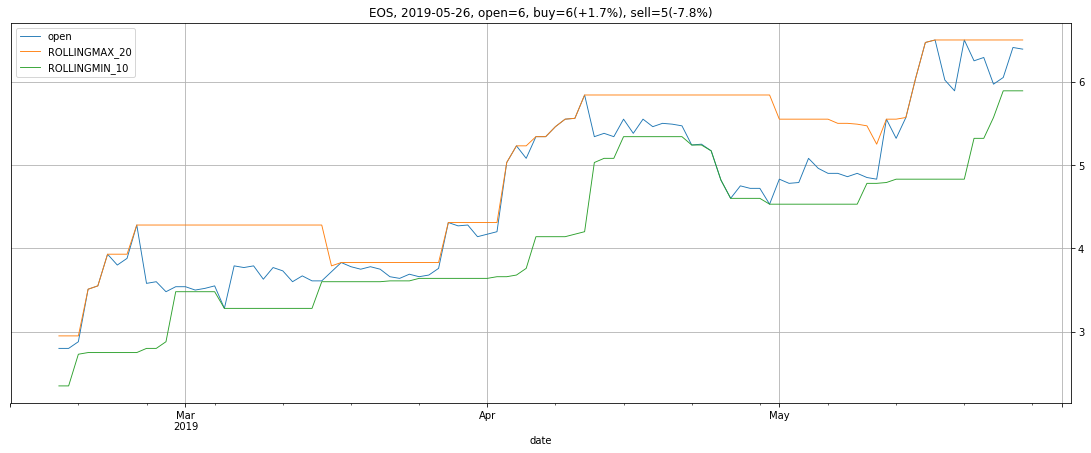
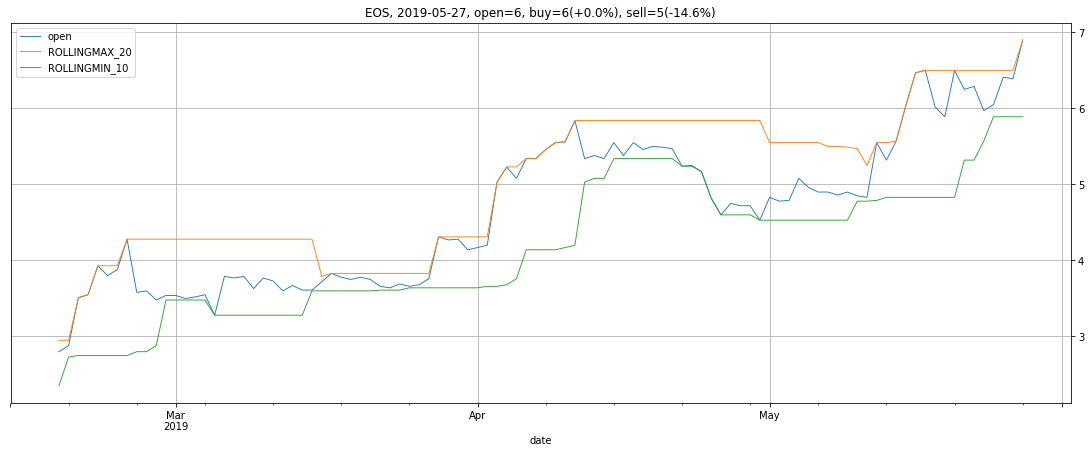
Daily update.

diff --git a/mds.md b/mds.md
@@ -19,9 +19,10 @@ display(HTML("<style>.container { width:70% !important; }</style>"))
 
 
 
-<script src="//code.highcharts.com/stock/highstock.js"></script>
-<script src="//code.highcharts.com/highcharts-more.js"></script>
-<script src="//code.highcharts.com/modules/exporting.js"></script>
+<script src="https://code.jquery.com/jquery-3.1.1.min.js"></script>
+<script src="https://code.highcharts.com/stock/highstock.js"></script>
+<script src="https://code.highcharts.com/stock/modules/exporting.js"></script>
+<script src="https://code.highcharts.com/stock/modules/export-data.js"></script>
 
 
 
@@ -109,52 +110,52 @@ monitor_df
     <tr>
       <th>0</th>
       <td>399300</td>
-      <td>2019-05-27</td>
-      <td>3592.60</td>
+      <td>2019-05-28</td>
+      <td>3633.02</td>
       <td>4125.97</td>
-      <td>+14.85%</td>
+      <td>+13.57%</td>
       <td>3584.90</td>
-      <td>-0.21%</td>
+      <td>-1.32%</td>
     </tr>
     <tr>
       <th>1</th>
       <td>000905</td>
-      <td>2019-05-27</td>
-      <td>4848.64</td>
-      <td>5852.64</td>
-      <td>+20.71%</td>
+      <td>2019-05-28</td>
+      <td>4965.59</td>
+      <td>5821.02</td>
+      <td>+17.23%</td>
       <td>4848.58</td>
-      <td>-0.00%</td>
+      <td>-2.36%</td>
     </tr>
     <tr>
       <th>2</th>
       <td>399006</td>
-      <td>2019-05-27</td>
-      <td>1447.98</td>
+      <td>2019-05-28</td>
+      <td>1497.12</td>
       <td>1787.96</td>
-      <td>+23.48%</td>
+      <td>+19.43%</td>
       <td>1447.98</td>
-      <td>-0.00%</td>
+      <td>-3.28%</td>
     </tr>
     <tr>
       <th>3</th>
       <td>BITCOIN</td>
-      <td>2019-05-26</td>
-      <td>8055.21</td>
-      <td>8196.92</td>
-      <td>+1.76%</td>
+      <td>2019-05-27</td>
+      <td>8674.07</td>
+      <td>8674.07</td>
+      <td>+0.00%</td>
       <td>7267.96</td>
-      <td>-9.77%</td>
+      <td>-16.21%</td>
     </tr>
     <tr>
       <th>4</th>
       <td>EOS</td>
-      <td>2019-05-26</td>
-      <td>6.39</td>
-      <td>6.50</td>
-      <td>+1.72%</td>
+      <td>2019-05-27</td>
+      <td>6.90</td>
+      <td>6.90</td>
+      <td>+0.00%</td>
       <td>5.89</td>
-      <td>-7.82%</td>
+      <td>-14.64%</td>
     </tr>
   </tbody>
 </table>
